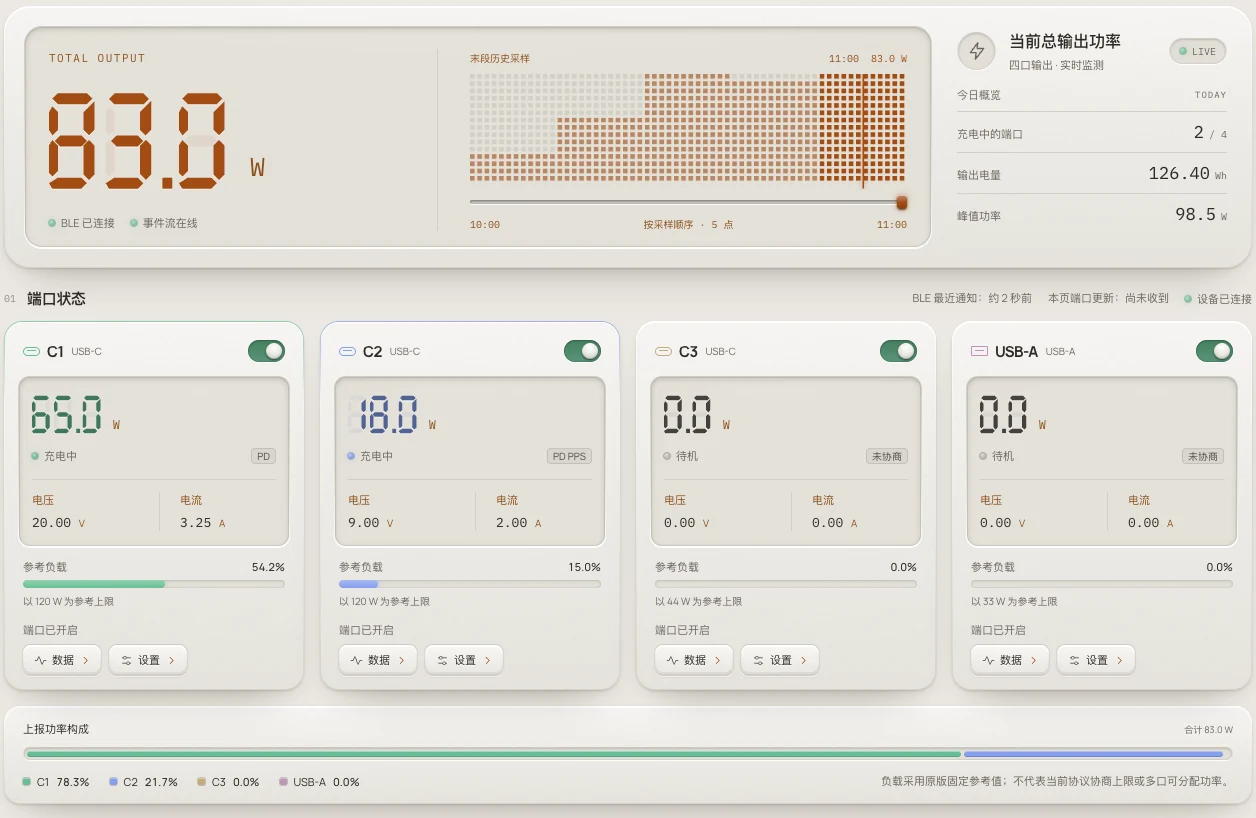
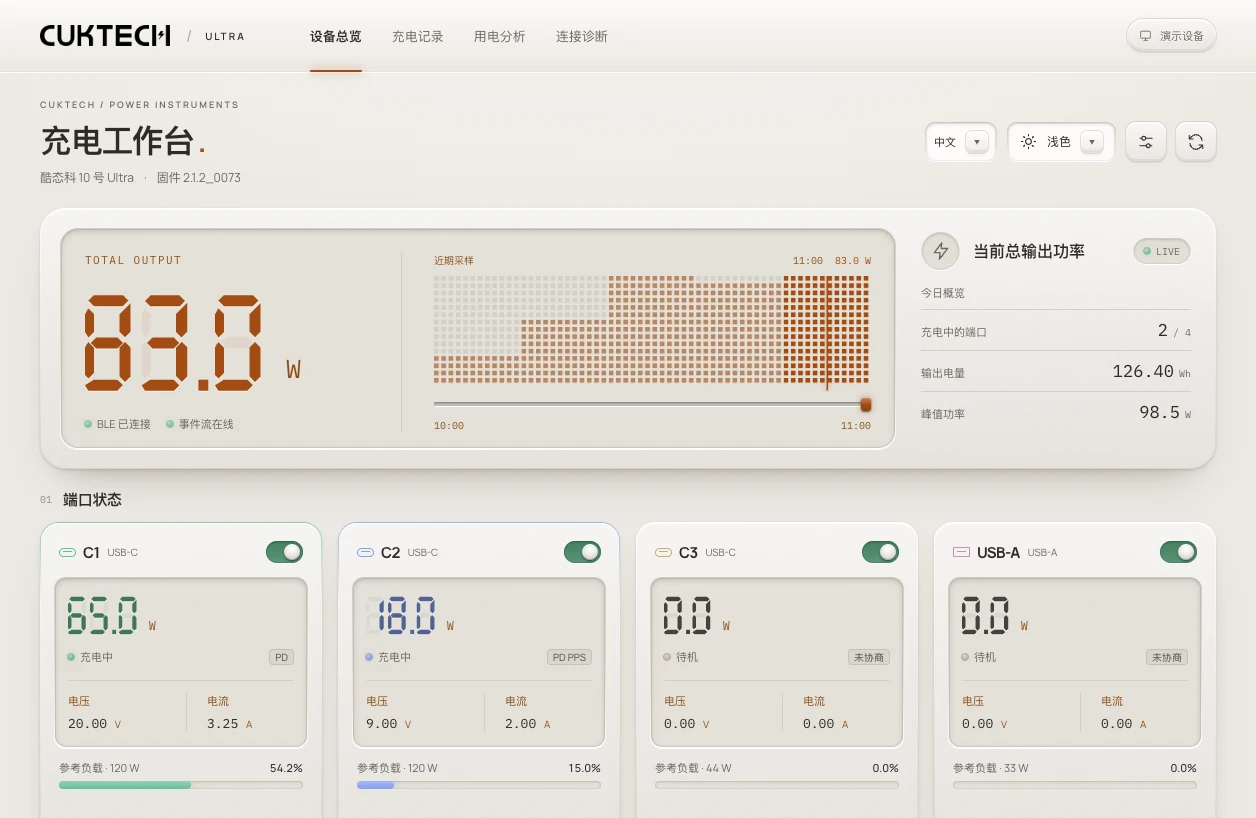
Refresh the workbench previews and link verified release downloads
Agent: Codex
Task: beta-11-release

diff --git a/docs/index.html b/docs/index.html
@@ -74,12 +74,14 @@
                 <div class="platform-actions">
                   <a class="button solid" id="mac-stable-download" download></a>
                   <a class="text-link" id="mac-stable-release">正式版说明</a>
+                  <a class="text-link" id="mac-stable-checksums">SHA256SUMS</a>
                 </div>
               </div>
               <div id="mac-beta" hidden>
                 <div class="platform-actions">
                   <a class="button solid" id="mac-beta-download" download></a>
                   <a class="text-link" id="mac-beta-release">测试版说明</a>
+                  <a class="text-link" id="mac-beta-checksums">SHA256SUMS</a>
                 </div>
               </div>
               <div class="platform-actions">
@@ -178,6 +180,8 @@
         download.textContent = `下载 Mac ${label}（ZIP）`;
         release.href = entry.release;
         release.textContent = `查看 v${entry.version} 发行说明`;
+        document.getElementById(`mac-${channel}-checksums`).href =
+          `${releaseOrigin}${releasePath}/download/v${entry.version}/SHA256SUMS`;
       }
 
       document.getElementById('mac-stable').hidden = !manifest.stable;

diff --git a/docs/guide/index.html b/docs/guide/index.html
@@ -48,6 +48,7 @@
           <ol>
             <li>从<a href="../index.html#downloads">下载区</a>获取 Mac ZIP，解压后将 CUKTECH Studio 拖到「应用程序」。</li>
             <li>打开 App，按系统提示允许蓝牙访问，再从菜单栏打开工作台。</li>
+            <li>在「系统配置」中选择「从小米云导入」，用米家 App 扫码并选择充电器。预览后保存，工作台会读回配置核对。可在「设备与连接设置」查看连接和认证状态。</li>
           </ol>
           <p>测试版使用临时签名，首次打开时 macOS 可能会要求确认来源。</p>
           <h3>更新</h3>

diff --git a/README.md b/README.md
@@ -1,6 +1,6 @@
 # CUKTECH Studio 发布与安装
 
-在这里下载 Mac 安装包、Docker Compose 和校验文件，查看版本更新说明。测试版适合跟进近期迭代。
+[项目主页](https://morty626.github.io/cuktech-studio-releases/)提供工作台截图、Mac 安装包、Docker Compose 和校验文件。[安装指南](https://morty626.github.io/cuktech-studio-releases/guide/)说明了平台要求和更新方法。
 
 ## Mac 测试版
 
